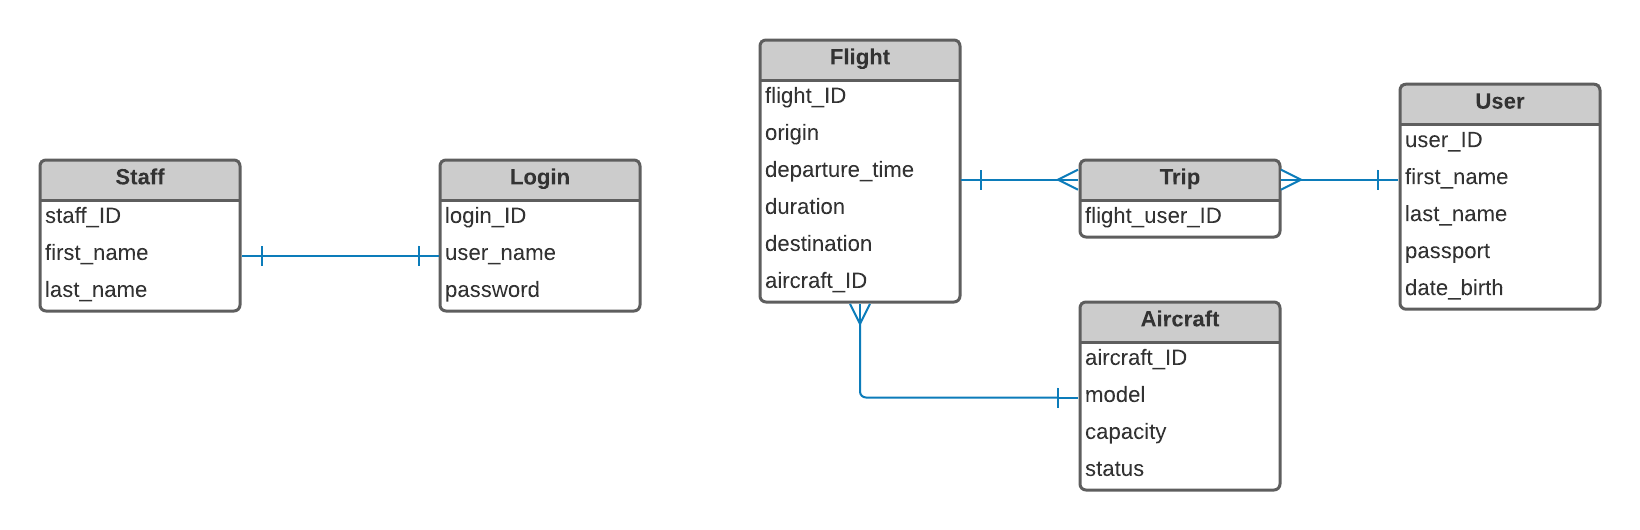
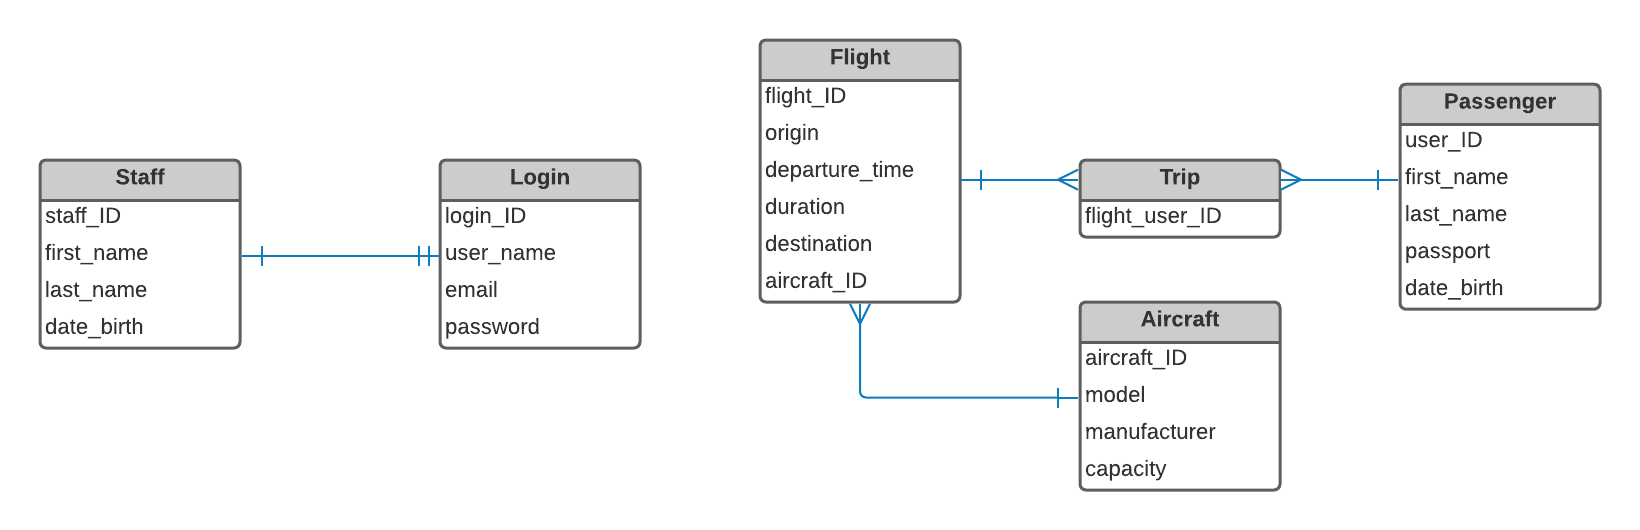
tests and readme updated.

diff --git a/app/core/tests/test_passenger.py b/app/core/tests/test_passenger.py
@@ -10,30 +10,33 @@ class PassengerTestCase(TestCase):
 
     # Let's define the objects that we will test if they have been added in the database
     def setUp(self):
-        # Person.objects.create(first_name="James" , last_name="Bond", dob="2019-05-06")
-        # Person.objects.create(first_name="John", last_name="Williams", dob="2020-03-06")
-        # Staff.objects.create(first_name="Lewis", last_name="Walker", dob="1996-10-12")
-        # Staff.objects.create(first_name="Carl", last_name="Maddison", dob="2000-03-30")
-        Passenger.objects.create(first_name="Paul", last_name="Kane", dob="1994-06-14", passport_num="123456ABC")
-        Passenger.objects.create(first_name="Jack", last_name="Rondon", dob="2022-04-08", passport_num="987654DEF")
+        Person.objects.create(first_name="James" , last_name="Bond", dob="2019-05-06")
+        Person.objects.create(first_name="John", last_name="Williams", dob="2020-03-06")
 
-    '''
+        Staff.objects.create(first_name="Lewis", last_name="Walker", dob="1996-10-12")
+        Staff.objects.create(first_name="Carl", last_name="Maddison", dob="2000-03-30")
+
+        Passenger.objects.create(first_name="Paul", last_name="Kane", dob="1994-06-14", passport_num="123456ABC")
+        Passenger.objects.create(first_name="Jack", last_name="Rondon", dob="2010-04-08", passport_num="987654DEF")
+        # Object to try to see what happens when we introduce two passengers with the same details
+        # Passenger.objects.create(first_name="Paul", last_name="Kane", dob="1994-06-14", passport_num="123456ABC")
+        # Object to try to see what happens when we introduce one passenger with a future day of birth
+        # Passenger.objects.create(first_name="Paul", last_name="Kane", dob="2022-06-14", passport_num="123456ABC")
+
     # Function(test) to check if a passenger(parent_class) exists in the database
     def test_passenger(self):
-        passenger1 = Passenger.objects.get(id=1)
+        passenger1 = Passenger.objects.get(id=5)
         self.assertEqual(passenger1.first_name, "Paul")
         self.assertEqual(passenger1.last_name, "Kane")
         self.assertEqual(str(passenger1.dob), "1994-06-14")
         self.assertEqual(passenger1.passport_num, "123456ABC")
-        passenger2 = Passenger.objects.get(id=2)
+        passenger2 = Passenger.objects.get(id=6)
         self.assertEqual(passenger2.first_name, "Jack")
         self.assertEqual(passenger2.last_name, "Rondon")
-        self.assertEqual(str(passenger2.dob), "1990-01-30")
+        self.assertEqual(str(passenger2.dob), "2010-04-08")
         self.assertEqual(passenger2.passport_num, "987654DEF")
 
-    '''
-    '''
-    # Function to check if a person(parent_class) exists in the database    
+    # Function(test) to check if a person(parent_class) exists in the database    
     def test_person(self):
         person_test = Person.objects.get(id=1)
         person_test2 = Person.objects.get(id=2)
@@ -43,30 +46,30 @@ class PassengerTestCase(TestCase):
         self.assertEqual(person_test2.first_name, "John")
         self.assertEqual(person_test2.last_name, "Williams")
         self.assertEqual(str(person_test2.dob), "2020-03-06")
-    
-    # Function to check if a staff(children_class) exists in the database  
+
+    # Function(test) to check if a staff(children_class) exists in the database  
     def test_staff(self):
-        staff1 = Staff.objects.get(id=1)
+        staff1 = Staff.objects.get(id=3)
         self.assertEqual(staff1.first_name, "Lewis")
         self.assertEqual(staff1.last_name, "Walker")
         self.assertEqual(str(staff1.dob), "1996-10-12")
-        staff2 = Staff.objects.get(id=2)
+        staff2 = Staff.objects.get(id=4)
         self.assertEqual(staff2.first_name, "Carl")
         self.assertEqual(staff2.last_name, "Maddison")
         self.assertEqual(str(staff2.dob), "2000-03-30")
-    '''
 
-    # Function to check if a passenger with a day of birth in the future has been added in the database
+     
+    # Function(test) to check if a passenger with a day of birth in the future has been added in the database
     def test_bod(self):
-        person_test = Passenger.objects.get(id=2)
+        person_test = Passenger.objects.get(id=5)
         today = datetime.date.today()
         date1 = today.strftime("%Y-%m-%d")
         self.assertLessEqual(str(person_test.dob), date1)
+    
 
-    ''' 
     # Function to check if the url of passenger is working
     def test_flight_url(self):
         client = Client()
-        response = client.get("/flights/")
+        response = client.get("/passengers/")
         self.assertEqual(response.status_code, 200)
-    '''
+

diff --git a/app/core/tests/test_flight.py b/app/core/tests/test_flight.py
@@ -1,9 +1,46 @@
 from django.test import TestCase
-'''
-from ..models import Flight
+import datetime
+from django.test import Client
+from ..models import Flight, Aircraft
 
-# We will test if a Flight was created
+# We will run tests for Flight
 class FlightTestCase(TestCase):
-    pass
 
-'''
+    # Let's define the objects that we will test if they have been added in the database
+    def setUp(self):
+        Aircraft.objects.create(model="BOEING", manufacturer="Ryanair", capacity=100)
+        aircraft1 = Aircraft.objects.get(aircraft_id=1)
+        Flight.objects.create(origin="London", destination="Paris", departure_time="2022-04-13 18:35", duration="02:30", aircraft_id=aircraft1)
+        # Object to try to see what happens when we introduce two passengers with the same details
+        Flight.objects.create(origin="London", destination="Paris", departure_time="2022-04-13 18:35", duration="02:30", aircraft_id=aircraft1)
+        # Object to try to see what happens when we introduce a flight with a past current day
+        Flight.objects.create(origin="Paris", destination="Madrid", departure_time="2025-04-13 18:35", duration="03:35",aircraft_id=aircraft1)
+
+    # Function(test) to check if a Flight(parent_class) exists in the database
+    def test_flight(self):
+        flight1 = Flight.objects.get(flight_id=1)
+        aircraft1 = Aircraft.objects.get(aircraft_id=1)
+        self.assertEqual(flight1.origin, "London")
+        self.assertEqual(flight1.destination, "Paris")
+        self.assertEqual(str(flight1.departure_time), "2022-04-13 18:35:00+00:00")
+        self.assertEqual(str(flight1.duration), "02:30:00")
+        self.assertEqual(flight1.aircraft_id, aircraft1)
+        flight2 = Flight.objects.get(flight_id=2)
+        self.assertEqual(flight2.origin, "London")
+        self.assertEqual(flight2.destination, "Paris")
+        self.assertEqual(str(flight2.departure_time), "2022-04-13 18:35:00+00:00")
+        self.assertEqual(str(flight2.duration), "02:30:00")
+        self.assertEqual(flight2.aircraft_id, aircraft1)
+
+    # Function(test) to check if a flight with a past date has been inserted in the database
+    def test_bod(self):
+        flight_test = Flight.objects.get(flight_id=3)
+        today = datetime.date.today()
+        date1 = today.strftime("%Y-%m-%d")
+        self.assertGreaterEqual(str(flight_test.departure_time), date1)
+
+    # Function to check if the url of flights is working
+    def test_flight_url(self):
+        client = Client()
+        response = client.get("/flights/")
+        self.assertEqual(response.status_code, 200)

diff --git a/app/core/tests/test_aircraft.py b/app/core/tests/test_aircraft.py
@@ -1,8 +1,31 @@
 from django.test import TestCase
-'''
+from django.test import Client
 from ..models import Aircraft
 
-# We will test if a Flight was created
+# We will run tests for Aircraft
 class AircraftTestCase(TestCase):
-    pass
-'''
+
+    # Let's define the objects that we will test if they have been added in the database
+    def setUp(self):
+        Aircraft.objects.create(model="BOEING", manufacturer="Ryanair", capacity=100)
+        # Object to try to see what happens when we introduce two passengers with the same details
+        # Aircraft.objects.create(model="BOEING", manufacturer="Ryanair", capacity=100)
+
+    # Function(test) to check if a Aircraft(parent_class) exists in the database
+    def test_aircraft(self):
+        aircraft1 = Aircraft.objects.get(aircraft_id=1)
+        self.assertEqual(aircraft1.model, "BOEING")
+        self.assertEqual(aircraft1.manufacturer, "Ryanair")
+        self.assertEqual(aircraft1.capacity, 100)
+        '''
+        aircraft2 = Aircraft.objects.get(aircraft_id=2)
+        self.assertEqual(aircraft2.model, "BOEING")
+        self.assertEqual(aircraft2.manufacturer, "Ryanair")
+        self.assertEqual(aircraft2.capacity, 100)
+        '''
+
+    # Function to check if the url of aircrafts is working
+    def test_flight_url(self):
+        client = Client()
+        response = client.get("/aircrafts/")
+        self.assertEqual(response.status_code, 200)

diff --git a/README.md b/README.md
@@ -8,6 +8,8 @@ Python Project for SpartaGlobal Engineering 84 DevOps Stream.
 - [Documentation](#documentation)
 - [Gitflow](#gitflow)
 - [Project Structure](#project-structure)
+- [Entity Relationship Diagram](#entity-relationship-diagram)
+- [TDD](#test-driven-development)
 
 ## User Stories
 
@@ -130,6 +132,86 @@ You should have 4 configured remote repo 2 for your forked repo as `origin` and 
 ![ERD](./assets/Airport_ERD.png)
 
 Our diagram is based on the User stories as well as on the different functionalities that our interface will cover.
-Django’s model makes use of a powerful ORM layer which simplifies dealing with the database and the data and accelerates the development process. Easy Database Migrations and easy database management. In this way we can have a persistent database for the reason that we will be using SQLite.
+Django’s model makes use of a powerful ORM layer which simplifies dealing with the database and the data and accelerates the development process. Easy Database Migrations and easy database management. Our database is structured for the following tables:
 - On one hand we have the entity of staff and login that have a one-to-one relationship because each user has their own login details and does not belong to anyone else. Database allows you to create whatever you want but we will restrict from people some functions. For that reason we have these two entities in the backend so that only we can control it.
 - On the other hand we have the entities of flight and user, which is a many-to-many relationship since a user can have several flights and a flight can have several users. The last entity that we have is aircraft that has a relationship of one to many for the reason that an airplane can be assigned to different flights but a flight can only have one airplane for the trip obviously. These entities are the ones that will be used the most depending on the assistant and the functionalities and thanks that django is going to generate the database automatically with which we can migrate it and make use of it, and this is the reason that we have it separated.
+
+Much appreciated to the chart we were able to center on the concept of OOP. It made a difference us choose how numerous classes we are planning to need to make, what attributes and methods each of these objects will have, and in this way we are able reuse the code within the diverse pages without having to rehash it. As a result of the ERD, code with OOP plan is adaptable, measured, and abstract.
+
+## Test Driven Development
+
+One of the requirements of the project was the use of the TDD software. Test-driven development is a software development process relying on software requirements being converted to test cases before software is fully developed. In simple terms, test cases for each functionality are created and tested. In the following image we proceed to see how the life cycle is:
+
+![TDD_SCHEME](./assets/TDD.png)
+
+- TDD cycle start with everything failing - RED
+- Write code to pass the test - GREEN
+- Refactor the code for the next test - BLUE
+- This continues until all the test have successfully passed.
+
+For the reason that at the time of implementation, the different developers have carried out the implementation of each functionality separately, in such a way that with TDD it has been easier for us to test each of the functionalities in the backend before proceeding to merge the code of each of the developers. TDD helps reduce the unexpected errors and the code becomes clearer and simple to understand. It's like an API Feedback. In such a way that when we have all the code together, all this information can solve future problems, we will save time and cost of the product and the code will be much cleaner.
+
+We will use Pytest unittest in Python to implement TDD.
+
+Let's proceed to create an example:
+
+- We proceed to create an instance of the passenger class in a manner that we insert its data into the database. We proceed to carry out the test with the test_passenger method in which we compare each of the passenger's attributes, but in the case of the passport we proceed to compare it with a different passport.
+````python
+from django.test import TestCase
+from ..models import Passenger
+# We will run tests for Person, Staff and Passenger
+class PassengerTestCase(TestCase):
+
+    # Let's define the objects that we will test if they have been added in the database
+    def setUp(self):
+        Passenger.objects.create(first_name="Paul", last_name="Kane", dob="1994-06-14", passport_num="123456ABC")
+    
+        def test_passenger(self):
+        passenger1 = Passenger.objects.get(id=5)
+        self.assertEqual(passenger1.first_name, "Paul")
+        self.assertEqual(passenger1.last_name, "Kane")
+        self.assertEqual(str(passenger1.dob), "1994-06-14")
+        self.assertEqual(passenger1.passport_num, "456789QWE")
+````
+
+- We proceed to run the test.
+````
+(venv) C:\Users\alfonso\PycharmProjects\eng84_Airport_Project\eng84-airport-project\app>python manage.py test
+Creating test database for alias 'default'...
+System check identified no issues (0 silenced).
+F
+======================================================================
+FAIL: test_passenger (core.tests.test_passenger.PassengerTestCase)
+----------------------------------------------------------------------
+Traceback (most recent call last):
+  File "C:\Users\alfonso\PycharmProjects\eng84_Airport_Project\eng84-airport-project\app\core\tests\test_passenger.py", line 32, in test_passenger
+    self.assertEqual(passenger1.passport_num, "456789QWE")
+AssertionError: '123456ABC' != '456789QWE'
+- 123456ABC
++ 456789QWE
+
+
+----------------------------------------------------------------------
+Ran 1 test in 0.050s
+
+FAILED (failures=1)
+Destroying test database for alias 'default'...
+````
+
+- We proceed to write the code correctly so that it passes the test:
+````python
+self.assertEqual(passenger1.passport_num, "123456ABC")
+````
+
+- We can see that the test has been passed successfully.
+````
+(venv) C:\Users\alfonso\PycharmProjects\eng84_Airport_Project\eng84-airport-project\app>python manage.py test
+Creating test database for alias 'default'...
+System check identified no issues (0 silenced).
+.
+----------------------------------------------------------------------
+Ran 1 test in 0.013s
+
+OK
+Destroying test database for alias 'default'...
+````
